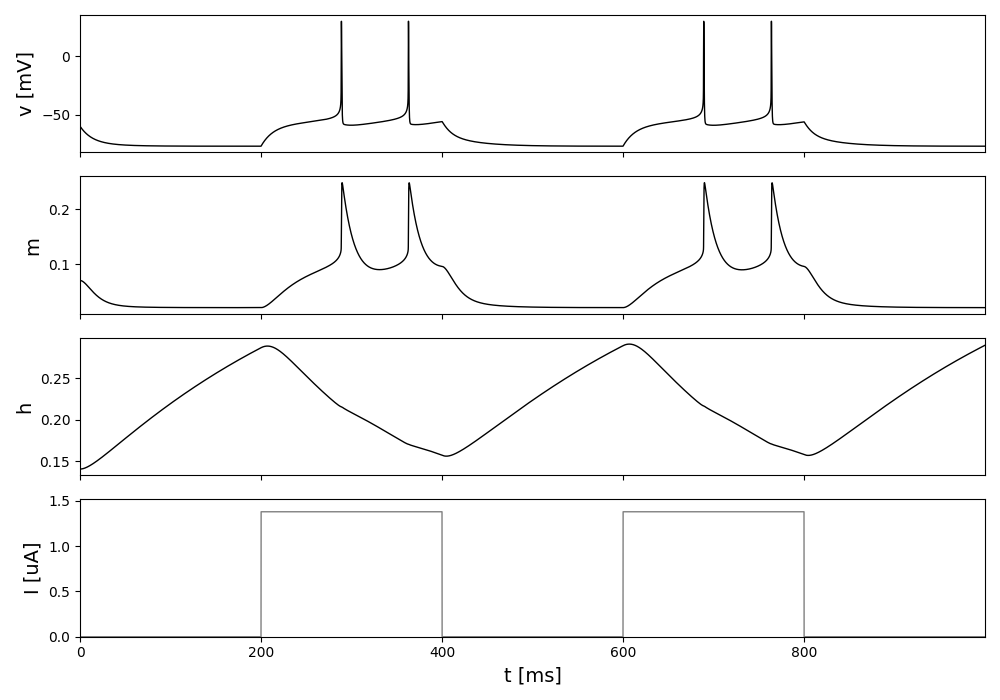
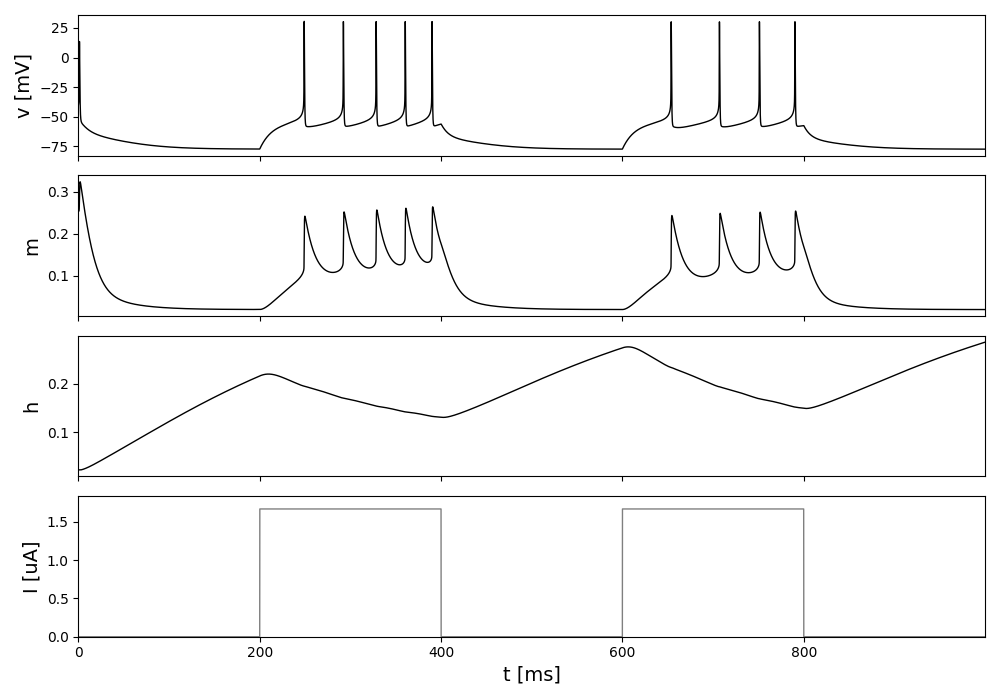
MSN cell added.

diff --git a/corbit2016/Brian/MSN/run.py b/corbit2016/Brian/MSN/run.py
@@ -1,3 +1,4 @@
+import os
 import numpy as np
 import brian2 as b2
 import pylab as plt
@@ -7,11 +8,14 @@ from lib import (clean_directory, simulate_MSN_cell,
                  plot_current)
 from input_factory import get_step_current
 
+if not os.path.exists("data"):
+    os.makedirs("data")
+
 if __name__ == "__main__":
 
     par = {
         'num': 1,
-        'v0': -60*b2.mV,
+        'v0': -40*b2.mV,
         'Cm': 1 * b2.uF,
         # 'Iapp': 1.67 * b2.uA,
 
@@ -62,7 +66,7 @@ if __name__ == "__main__":
     def plot():
         current_unit = b2.uA
         start_time = time()
-        i_stim = [1.38]
+        i_stim = [1.67]
         _, ax = plt.subplots(len(i_stim)+3, figsize=(10, 7), sharex=True)
         for ii in range(len(i_stim)):
 
@@ -82,7 +86,7 @@ if __name__ == "__main__":
             plot_current(st_mon, ax[-1], current_unit)
         print("Done in {:.3f}".format(time() - start_time))
         plt.tight_layout()
-        plt.savefig('figure_1.png')
+        plt.savefig('data/figure_1.png')
         plt.close()
 
     plot()

diff --git a/corbit2016/Brian/MSN/lib.py b/corbit2016/Brian/MSN/lib.py
@@ -76,7 +76,7 @@ def simulate_MSN_cell(par, par_sim):
     dm_Nas/dt = ( minf_Nas - m_Nas ) / tau_m_Nas :1
     iNas = gnasbar * m_Nas *(vm - eNas) :amp
 
-    membrain_Im = Iapp-iLeak-iNa-iK-iKir-iKaf-iKrp-iNap-iNas :amp # iKas
+    membrain_Im = Iapp-iLeak-iNa-iK-iKir-iKaf-iKrp-iNap-iNas-iKas :amp  
     dvm/dt = membrain_Im/Cm :volt
     '''
 
